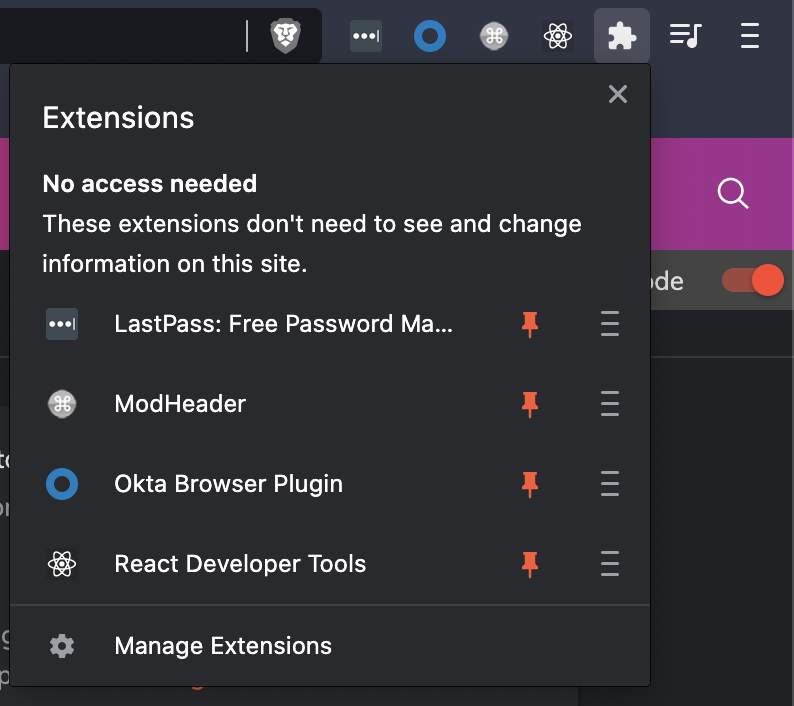
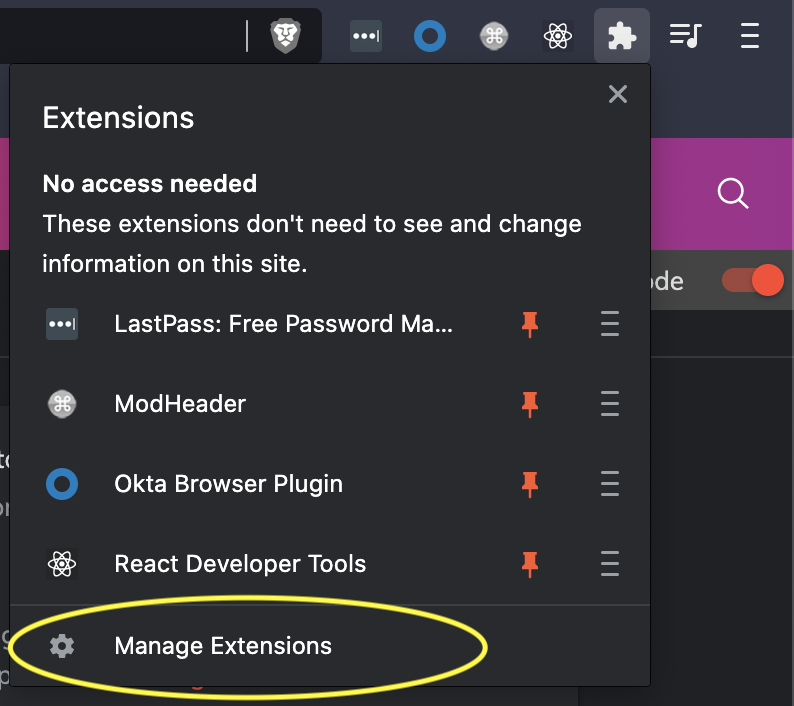
Add extension how to

diff --git a/README.md b/README.md
@@ -1,8 +1,18 @@
-# Fusion Browser Extension 
+# Fusion Browser Extension
 
-## How To Use 
+## How To Use
 
-1. `git clone https://github.com/wapopartners/Fusion-Browser-Extension`
+1. In your Terminal, run `cd && git clone https://github.com/wapopartners/Fusion-Browser-Extension`
 2. `cd Fusion-Browser-Extension && npm i && npm run build`
 3. Go to your Chrome or Chromium-based browser (e.g., Brave) extension panel. Click the `Manage Extensions` button.
-
+   ![Click manage extensions](./docs/click-extension-button.png)
+4. Ensure you have toggled on 'Developer mode'
+   ![Turn on developer mode in extensions page](./docs/toggle-on-dev-mode.png)
+5. Press button 'Load unpacked' button
+   ![Pick load unpacked](./docs/click-load-unpacked-button.png)
+6. Choose 'build' folder in the Fusion-Browser-Extension folder. (If you do not see the build folder here, please run `cd && cd Fusion-Browser-Extension && npm i && npm run build`. The build command creates the build folder.)
+   ![Pick created build folder](./docs/select-build-folder.png)
+7. Now that the extension is loaded, you should see the icon in your extensions. 
+  ![See extension](./docs/see-extension-loaded.png) NOTE: If you're a developer whose working on the extension, you can make a change then re-run `npm run build`. And, if you click the refresh button (circled in pink), you will see that change manifested.
+8. To use the extension's user interface, the extension needs to be pinned to your top-menu. 
+  ![Pin extension](./docs/pin-extension-to-see-in-menu.png)
